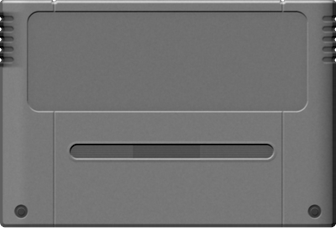
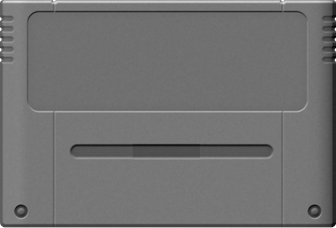
SNES PAL cart: no dark patch by the left vents, a grip that rolls smoothly in, domed screws
The bare bed takes the well's floor colour and reaches a little further into
its corners, so no square shows inside the round well.

Claude-Session: https://claude.ai/code/session_0196AMJuJq2G4gsNtTtygQSD

diff --git a/tools/carts/snes_pal_render.py b/tools/carts/snes_pal_render.py
@@ -101,9 +101,9 @@ for u in (0.161, 0.841):
 # the grip: a long pill-shaped well with a soft raised rim, three ribbed segments, the middle one deeper
 slot = rect(0.209, 0.634, 0.814, 0.696, 0.024)
 rim = rect(0.199, 0.621, 0.824, 0.709, 0.033)
-rim_h = np.sin(np.clip(nd.distance_transform_edt(np.pad(rim, 1))[1:-1, 1:-1] / (2.5 * SS), 0, 1) * np.pi / 2)
-height += rim_h * 0.6
-height -= slot * 3.4
+# no raised lip: the plastic rolls smoothly down into the well (Roy 2026-10-23)
+slot_in = nd.distance_transform_edt(np.pad(slot, 1))[1:-1, 1:-1]
+height -= np.sin(np.clip(slot_in / (3.0 * SS), 0, 1) * np.pi / 2) * 3.4
 mid = rect(0.397, 0.62, 0.596, 0.72) & slot
 height -= mid * 0.5
 ribs = 0.5 + 0.5 * np.cos((yy - V(0.634)) / (2.2 * SS) * 2 * np.pi)
@@ -112,8 +112,11 @@ height += slot * ribs * 0.35
 # real carts: a small screw head sitting in a shallow countersink
 wells = disc(0.063, 0.929, 0.019) | disc(0.937, 0.929, 0.019)
 holes = disc(0.063, 0.929, 0.011) | disc(0.937, 0.929, 0.011)
-height -= wells * 1.6
-height += holes * 1.0
+height -= wells * 2.6
+# the screw head is domed, so it catches the light on one side (Roy: it read faint)
+for u in (0.063, 0.937):
+    rr = np.sqrt((xx - U(u)) ** 2 + (yy - V(0.929)) ** 2) / (0.011 * w)
+    height += np.sqrt(np.clip(1 - rr * rr, 0, 1)) * 2.4
 height *= cart
 # the flat face sits at the Game Boy carts' level, so the same colour reads the same (Roy)
 grey = 119 * crisp(height) + grain(1.2)
@@ -121,7 +124,7 @@ grey = 119 * crisp(height) + grain(1.2)
 grey *= 1 - 0.06 * nd.gaussian_filter(label.astype(np.float32), SS)
 grey *= 1 - 0.5 * nd.gaussian_filter((wells & ~holes).astype(np.float32), 0.6 * SS)
 grey *= 1 - 0.24 * nd.gaussian_filter(slot.astype(np.float32), 0.8 * SS) * (1 + 0.3 * mid)
-grey = np.where(holes, grey * 0.5, grey)
+grey = np.where(holes, grey * 0.8, grey)
 # the side vents are cut deep: their floor sits in shadow
 grey *= 1 - 0.20 * nd.gaussian_filter(vent.astype(np.float32), 0.4 * SS)
 # the rounded ends turn away from the light: a soft sheen where they start to curve, then the
@@ -134,10 +137,6 @@ edge = (dist < 3 * SS) & (nd.gaussian_filter(vent.astype(np.float32), 1.5 * SS) 
 grey = np.where(edge & (dx > R), np.maximum(grey, 119 * 0.86), grey)
 # the notched side edges must not read as dark arcs around each vent
 grey = np.where((dist < 3 * SS) & (dx <= R), np.maximum(grey, 119 * 0.80), grey)
-# the left vents take the right ones' shading, mirrored, so both sides read the same (Roy)
-zone = np.clip((U(0.08) - xx) / U(0.02), 0, 1) * ((yy > V(VENTS[0] - 0.02)) & (yy < V(VENTS[-1] + VH + 0.02)))
-zone = nd.gaussian_filter(zone.astype(np.float32), SS)
-grey = grey * (1 - zone) + grey[:, ::-1] * zone
 A = save(grey3(grey), cart, 'snes_neutral.png')
 m = np.zeros((H, W, 4), np.uint8); m[..., :3] = 255; m[..., 3] = (A * 255).round().astype(np.uint8)
 Image.fromarray(m, 'RGBA').save(f'{out}/snes_cart.png')

diff --git a/crates/slot-ui/src/cart.rs b/crates/slot-ui/src/cart.rs
@@ -681,13 +681,19 @@ fn plastic_label_bed(s: &Spec, face: &mut CartFace) {
         return;
     }
     let mut mean = sum.map(|v| (v / n) as f32);
-    // A Game Boy pak's well is a little wider than its sticker: the bed takes the colour of the
-    // floor left showing round it, so the floor reads as one, inside one rim.
+    // A Game Boy pak's well, and a PAL SNES cart's, is a little wider than its sticker: the
+    // bed takes the colour of the floor left showing round it, so the floor reads as one,
+    // inside one rim.
     let mut floor = 0.95;
-    if s.mould == Mould::Notched {
+    let ring_w = match s.mould {
+        Mould::Notched => 2,
+        Mould::SnesPal => 1,
+        _ => 0,
+    };
+    if ring_w > 0 {
         let (mut ring, mut k) = ([0u64; 4], 0u64);
         for y in ly + lh / 4..ly + lh * 3 / 4 {
-            for x in (lx - 2..lx).chain(lx + lw..lx + lw + 2) {
+            for x in (lx - ring_w..lx).chain(lx + lw..lx + lw + ring_w) {
                 let i = ((y * s.w + x) * 4) as usize;
                 for c in 0..4 {
                     ring[c] += face.rgba[i + c] as u64;
@@ -740,7 +746,7 @@ fn plastic_label_bed(s: &Spec, face: &mut CartFace) {
             let cover = match (s.mould.tv(), s.square_top) {
                 (false, _) => 255,
                 (true, true) => corner_cover(x, y + lh, lw, 2 * lh, s.radius),
-                (true, false) => corner_cover(x, y, lw, lh, s.radius),
+                (true, false) => corner_cover(x, y, lw, lh, s.radius - 2.5),
             } as f32
                 / 255.0;
             let d = (((y + ly) * s.w + x + lx) * 4) as usize;
